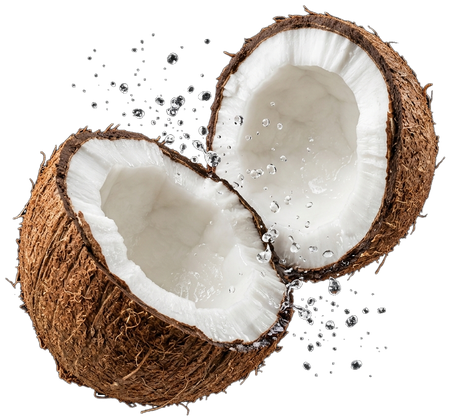
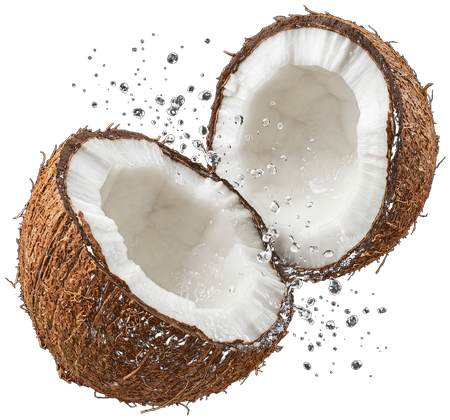
fix(hero): cleanly extract coconut chunks and cream splash without clipping, optimize sizes and positions

diff --git a/src/config/hero-slides.ts b/src/config/hero-slides.ts
@@ -95,8 +95,8 @@ export const heroSlides: HeroSlide[] = [
     accentColor: '#E2553A',
     image: '/products/hero-drpepper-coconut.png',
     floatingElements: [
-      { src: '/hero/coconut-half.png', alt: 'Demi noix de coco', depth: 0.85, initialX: '18%', initialY: '32%', size: 110, rotation: -14 },
-      { src: '/hero/coconut-chunk.png', alt: 'Éclat de noix de coco et crème', depth: 0.8, initialX: '82%', initialY: '30%', size: 115, rotation: 18 },
+      { src: '/hero/coconut-half.png', alt: 'Demi noix de coco', depth: 0.85, initialX: '19%', initialY: '36%', size: 120, rotation: -12 },
+      { src: '/hero/coconut-chunk.png', alt: 'Éclats de noix de coco et crème', depth: 0.8, initialX: '81%', initialY: '34%', size: 125, rotation: 15 },
       { src: '/hero/ice-cube-1.svg', alt: 'Glaçon', depth: 0.4, initialX: '22%', initialY: '68%', size: 55, rotation: 30 },
       { src: '/hero/ice-cube-2.svg', alt: 'Glaçon', depth: 0.7, initialX: '80%', initialY: '66%', size: 70, rotation: -25 },
       { src: '/hero/drop-1.svg', alt: 'Goutte', depth: 0.5, initialX: '26%', initialY: '18%', size: 38, rotation: 12 },
